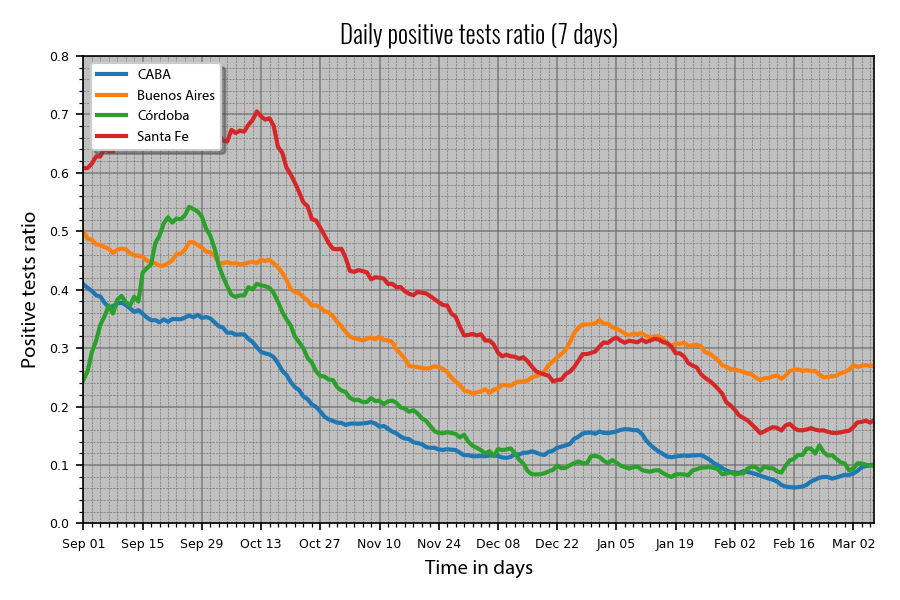
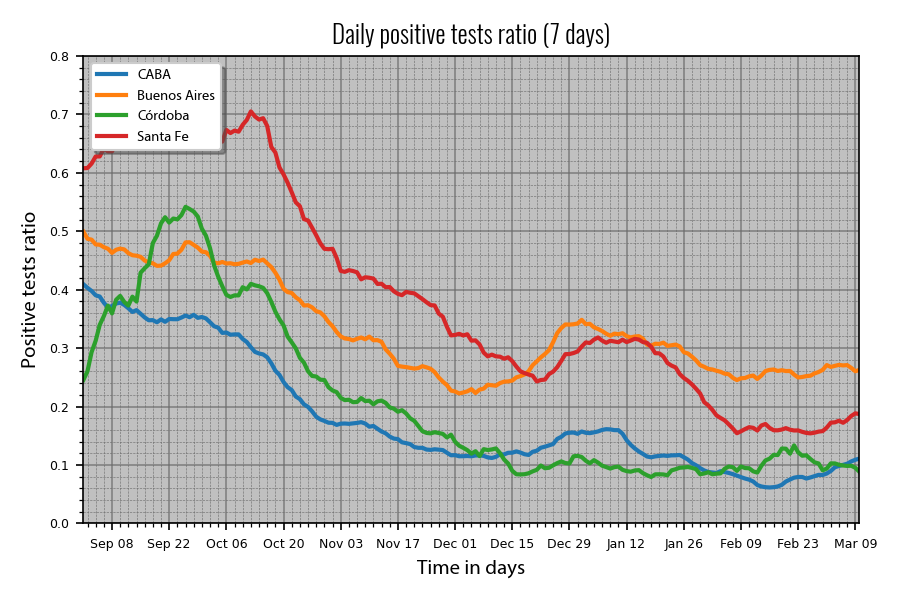
Updating testing charts, improving COVID-19_Analysis.py...

Changed region(s): [[0.0622, 0.03, 0.9956, 0.96]]

diff --git a/COVID-19_Analysis.py b/COVID-19_Analysis.py
@@ -17,13 +17,13 @@ print("Ploting data of ", end=" ")
 #Deciding what to plot...
 confirmedByDate = False #Decide if you want to plot data by date for selected regions.
 deathsByDate = False
-confirmedAndDeathsByDate = True
+confirmedAndDeathsByDate = False
 confirmedByOutbreak = False #Decide if you want to plot data by notified cases for selected regions.
 deathsByOutbreak = False
-confirmedAndDeahtsByOutbreak = True
+confirmedAndDeahtsByOutbreak = False
 newConfirmed = False #Decide if you want to plot new daily cases for selected regions
 newDeaths = False
-newConfirmedTrend = False #Decide if you want to plot new daily cases trend (5 day average) for selected regions
+newConfirmedTrend = False #Decide if you want to plot new daily cases trend (7 day average) for selected regions
 newDeathsTrend = False
 newConfirmedAndDeathTrend = True
 deathRate = False #Decide if you want to plot death rate evolution for selected regions
@@ -35,14 +35,20 @@ weeklyAnalysisR = False
 #Note that the first one will be used as reference to decide periods of time to plot
 #regions = ["India", "Brazil", "Russia"]
 regions = ["Argentina", "Peru", "Mexico", "South Africa", "Colombia"]
-#regions = ["Argentina", "Chile", "United Kingdom", "Iran", "Saudi Arabia", "Spain", "France"]
-#regions = ["Argentina", "Italy", "Turkey", "Germany"]
-#regions = ["Netherlands", "Poland", "Ecuador", "Canada", "Qatar", "Israel", "Panama", "Bolivia"]
-#regions = ["Sweden", "Guatemala", "Singapore", "Portugal", "Japan", "Costa Rica", "Switzerland"]
-#regions = ["Austria", "El Salvador", "Australia", "Paraguay"]
-#regions = ["Korea, South", "Norway", "Finland"]
-#regions = ["Taiwan*", "Vietnam", "Uruguay", "New Zealand", "Iceland"]
-#regions = ["Australia", "Paraguay", "Uruguay"]
+#regions = ["Argentina", "Chile", "Colombia", "Peru"]
+#regions = ["Germany", "United Kingdom", "Spain", "France"]
+#regions = ["Germany", "United Kingdom"]
+#regions = ["Argentina", "Italy", "Germany", "Poland", "Spain", "France"]
+#regions = ["Netherlands", "Ecuador", "Canada", "Qatar", "Israel", "Panama", "Bolivia"]
+#regions = ["Austria", "Sweden", "Portugal", "Switzerland"]
+#regions = ["Singapore", "Japan", "Costa Rica"]
+#regions = ["El Salvador", "Australia"]
+#regions = ["Korea, South", "Norway", "Finland", "Australia"]
+#regions = ["Taiwan*", "Vietnam", "New Zealand"]
+#regions = ["Sweden", "Norway", "Finland", "Denmark"]
+#regions = ["Czechia"]
+regions = ["Paraguay", "Chile"]
+#regions = ["Brazil", "United Kingdom"]
 
 regionsIndexes = [[],[]]
 groupbyCountry = True
@@ -68,7 +74,7 @@ dayTags = ["Monday", "Tuesday", "Wednesday", "Thursday", "Friday", "Saturday", "
 startDateDay = 2
 
 #Selecting data to display
-startDate = "7/1/20" #Starting point for plotbyDate. Default: 1/22/20
+startDate = "3/1/20" #Starting point for plotbyDate. Default: 1/22/20
 caseCount = 200 #Starting point for plotbyOutbreak (number of confirmed cases)
 outbreakDayCount = 0 #Number of days after caseCount condition is fulfiled
 dataGuide = 0 #Data type to calculate startpoints (confirmed, deaths, recovered)
@@ -318,8 +324,13 @@ def getNewCasesAv(datalist):
 	ls = []
 	ls.append(None)
 	ls.append(None)
-	for e in range(len(datalist) - 4):
-		ls.append((datalist[e+4] + datalist[e+3] + datalist[e+2] + datalist[e+1] + datalist[e])/5)
+	ls.append(None)
+	for e in range(len(datalist) - 6):
+		t = 0
+		for i in range(7):
+			t += datalist[e+i]
+		ls.append(t/7)
+	ls.append(None)
 	ls.append(None)
 	ls.append(None)
 	return ls
@@ -352,7 +363,7 @@ def plotNewCases(datalocation, datatype, dataguide):
 	plt.tight_layout()
 	plt.show()
 
-def plotNewCases5Av(datalocation, datatype, dataguide):
+def plotNerCases7Av(datalocation, datatype, dataguide):
 	startPoints = regionsStartPoints(regions)
 	period = databases[dataguide].shape[0] - startPoints[dataguide][0] - outbreakDayCount
 	figure(num=None, figsize=(8, 4), dpi=imageResolution, facecolor=backgroundFigure, edgecolor='k')
@@ -366,7 +377,7 @@ def plotNewCases5Av(datalocation, datatype, dataguide):
 	plt.title("COVID-19: New " + dataTitles[datatype] + " cases trend since number " + str(caseCount) + " " + dataTitles[dataguide])
 	plt.legend(loc=0, shadow = True, facecolor = backgroundFigure, prop={'family' : legendFont, 'size' : 8})
 	plt.grid()
-	plt.ylabel("Average of new cases (5 days)", fontname=legendFont)
+	plt.ylabel("Average of new cases (7 days)", fontname=legendFont)
 	plt.xlabel("Time in days", fontname=legendFont)
 	plt.yscale(plotScale)
 	plt.xticks(fontsize=6)
@@ -397,7 +408,7 @@ def plotDoubleNewCases5Av(datalocation, datatypeA, datatypeB, dataguide):
 	plt.title(dataTitles[datatypeA])
 	plt.legend(loc=0, shadow = True, facecolor = backgroundFigure, prop={'family' : legendFont, 'size' : 8})
 	plt.grid()
-	plt.ylabel("Average of new cases (5 days)", fontname=legendFont)
+	plt.ylabel("Average of new cases (7 days)", fontname=legendFont)
 	plt.xlabel("", fontname=legendFont)
 	plt.yscale(plotScale)
 	plt.xticks(fontsize=6)
@@ -419,7 +430,7 @@ def plotDoubleNewCases5Av(datalocation, datatypeA, datatypeB, dataguide):
 	plt.title(dataTitles[datatypeB])
 	plt.legend(loc=0, shadow = True, facecolor = backgroundFigure, prop={'family' : legendFont, 'size' : 8})
 	plt.grid()
-	plt.ylabel("Average of new cases (5 days)", fontname=legendFont)
+	plt.ylabel("Average of new cases (7 days)", fontname=legendFont)
 	plt.xlabel("Time in days", fontname=legendFont)
 	plt.yscale(plotScale)
 	plt.xticks(fontsize=6)
@@ -648,9 +659,9 @@ if newConfirmed == True:
 if newDeaths == True:
 	plotNewCases(regionsIndexes, 1, dataGuide)
 if newConfirmedTrend == True:
-	plotNewCases5Av(regionsIndexes, 0, dataGuide)
+	plotNerCases7Av(regionsIndexes, 0, dataGuide)
 if newDeathsTrend == True:
-	plotNewCases5Av(regionsIndexes, 1, dataGuide)
+	plotNerCases7Av(regionsIndexes, 1, dataGuide)
 if newConfirmedAndDeathTrend == True:
 	plotDoubleNewCases5Av(regionsIndexes, 0, 1, dataGuide)
 if deathRate == True:

diff --git a/COVID-19_DataGobAr_TestsAnalysis.py b/COVID-19_DataGobAr_TestsAnalysis.py
@@ -22,14 +22,14 @@ chartPath = "Argentina_Data/actual_charts/testing/"
 colorlist = ["orange", "tab:blue", "tab:red", "tab:green"]
 
 dataStartDate = "2020-02-11"
-dataEndDate = "2021-03-13"
+dataEndDate = "2021-03-15"
 wantedStartDate = "2020-09-01"
-wantedEndDate = "2021-03-07"
+wantedEndDate = "2021-03-10"
 dataPeriod = pd.date_range(dataStartDate, dataEndDate)
 plotScale = "linear"
 
 #Deciding language for titles and tags...
-lg = 0 # 0 for english, 1 for spanish
+lg = 1 # 0 for english, 1 for spanish
 ticksSizes = [1500, 250000, 0.1, 100000]
 
 #Deciding if you want to save and show charts...
